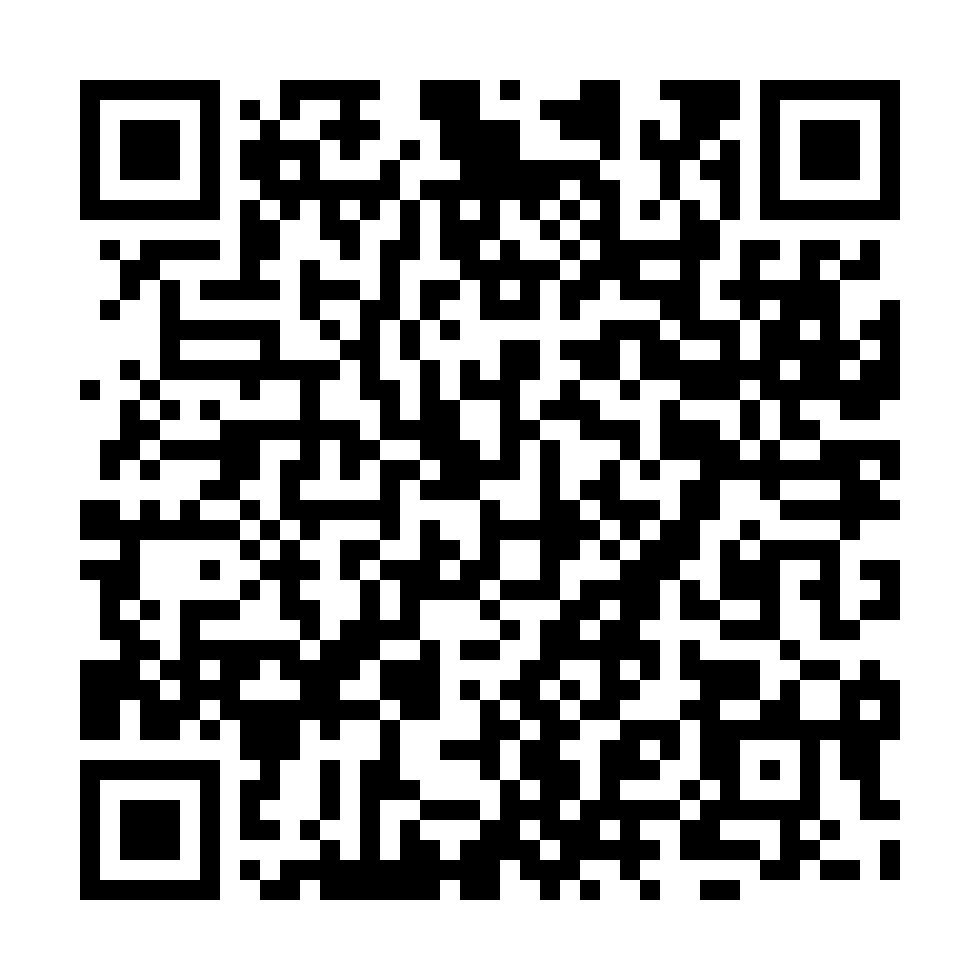
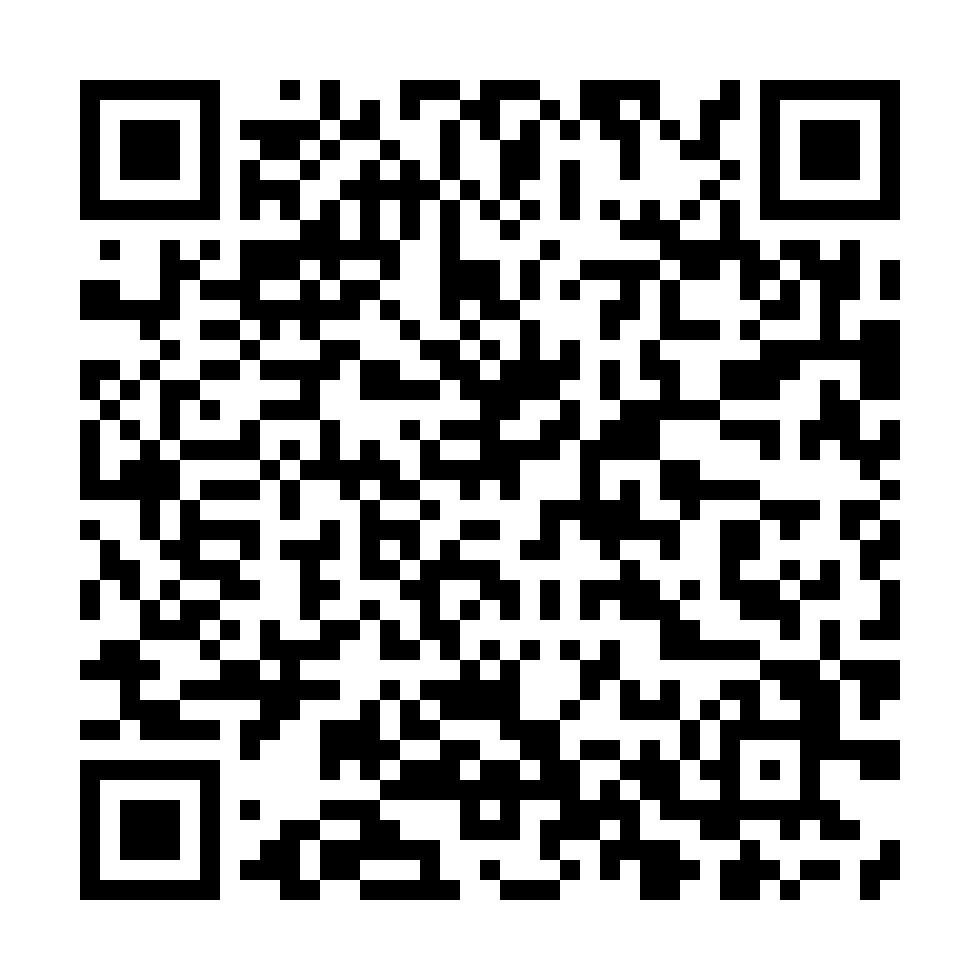
changed email sending to SendGrid

Changed region(s): [[0.0612, 0.0612, 0.9184, 0.9184]]

diff --git a/Server/Services/MailService.cs b/Server/Services/MailService.cs
@@ -3,9 +3,12 @@ using MailKit.Security;
 using Microsoft.EntityFrameworkCore;
 using MimeKit;
 using QRCoder;
+using SendGrid;
+using SendGrid.Helpers.Mail;
 using System;
 using System.Collections.Generic;
 using System.Drawing;
+using System.IO;
 using System.Linq;
 using System.Threading.Tasks;
 using TicketReservationSystem.Server.Context;
@@ -26,32 +29,54 @@ namespace TicketReservationSystem.Server.Services
 
         public async Task SendEmailAsync(MailRequest mailRequest, int reservationId)
        {
-        var cinema = _context.Cinemas.Include(h => h.Account).ToList().FirstOrDefault(c => !c.IsObsolete);
+
+            var cinema = _context.Cinemas.Include(h => h.Account).ToList().FirstOrDefault(c => !c.IsObsolete);
             var reservation = _context.Reservations.Include(h => h.Payment).Include(h => h.MovieShow).ThenInclude(ms => ms.Movie).Include(h => h.MovieShow).ThenInclude(s => s.Hall).ThenInclude(s => s.Cinema).Include(h => h.ReservationSeats).ThenInclude(h => h.Seats).FirstOrDefault(r => r.ReservationId == reservationId);
+            
+            var apiKey = "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";
+            var client = new SendGridClient(apiKey);
 
-        QRCodeGenerator qrGenerator = new QRCodeGenerator();
-        QRCodeData qrCodeData = qrGenerator.CreateQrCode($"Show : {reservation.MovieShow.Hall.Cinema.Name} {reservation.MovieShow.Hall.Name} {reservation.MovieShow.Movie.Title} {reservation.MovieShow.Date}\n" +
-            $"Number of tickets {reservation.ReservationSeats[0].Seats.Count}", QRCodeGenerator.ECCLevel.Q);
-        QRCode qrCode = new QRCode(qrCodeData);
-        Bitmap qrCodeImage = qrCode.GetGraphic(20);
-        qrCodeImage.Save("file.png");
+            QRCodeGenerator qrGenerator = new QRCodeGenerator();
+            QRCodeData qrCodeData = qrGenerator.CreateQrCode($"Show : {reservation.MovieShow.Hall.Cinema.Name} {reservation.MovieShow.Hall.Name} {reservation.MovieShow.Movie.Title} {reservation.MovieShow.Date}\n" +
+                $"Number of tickets {reservation.ReservationSeats[0].Seats.Count}\n" +
+                $"Reservation: {reservation.ReservationId}", QRCodeGenerator.ECCLevel.Q);
+            QRCode qrCode = new QRCode(qrCodeData);
+            Bitmap qrCodeImage = qrCode.GetGraphic(20);
+ 
+            ImageConverter converter = new ImageConverter();
+            var bytes = (byte[])converter.ConvertTo(qrCodeImage, typeof(byte[]));
+            var file = Convert.ToBase64String(bytes);
+            
+
+            var from = new EmailAddress(cinema.Account.Email, "NoReply");
+            var to = new EmailAddress(reservation.EmailForTickets);
+            var plainTextContent = " ";
+            var htmlContent = "<strong>and easy to do anywhere, even with C#</strong>";
+           
+            var msg = MailHelper.CreateSingleEmail(from, to, "Tickets", plainTextContent, htmlContent);
+            msg.AddAttachment("Tickets.png", file);
+            var response = await client.SendEmailAsync(msg);
+            Console.WriteLine(response);
+            var dataArray = await response.Body.ReadAsStringAsync();
+            Console.WriteLine(dataArray);
 
 
-            var builder = new BodyBuilder();
-            builder.Attachments.Add("file.png");
-       
-        var email = new MimeMessage();
-        email.Sender = MailboxAddress.Parse(cinema.Account.Email);
-        email.To.Add(MailboxAddress.Parse(mailRequest.ToEmail));
-        email.Subject = mailRequest.Subject;
-        builder.HtmlBody = "Price: " + (reservation.Payment.TotalPrice/100).ToString() +'\n'+
-                "For " + reservation.MovieShow.Movie.Title;
-        email.Body = builder.ToMessageBody();
-        using var smtp = new SmtpClient();
-        smtp.Connect("smtp.gmail.com", 587, SecureSocketOptions.StartTls);
-         smtp.Authenticate(cinema.Account.Email, cinema.Account.Password);
-        await smtp.SendAsync(email);
-        smtp.Disconnect(true);
-      }
+
+            //    var builder = new BodyBuilder();
+            //    builder.Attachments.Add("file.png");
+
+            //var email = new MimeMessage();
+            //email.Sender = MailboxAddress.Parse(cinema.Account.Email);
+            //email.To.Add(MailboxAddress.Parse(mailRequest.ToEmail));
+            //email.Subject = mailRequest.Subject;
+            //builder.HtmlBody = "Price: " + (reservation.Payment.TotalPrice/100).ToString() +'\n'+
+            //        "For " + reservation.MovieShow.Movie.Title;
+            //email.Body = builder.ToMessageBody();
+            //using var smtp = new SmtpClient();
+            //smtp.Connect("smtp.gmail.com", 587, SecureSocketOptions.StartTls);
+            // smtp.Authenticate(cinema.Account.Email, cinema.Account.Password);
+            //await smtp.SendAsync(email);
+            //smtp.Disconnect(true);
+        }
     }
 }

diff --git a/Shared/DTO/UserDTO.cs b/Shared/DTO/UserDTO.cs
@@ -2,12 +2,15 @@ using System;
 using System.Collections.Generic;
 using System.Linq;
 using System.Threading.Tasks;
+using TicketReservationSystem.Shared.Domain;
 
 namespace TicketReservationSystem.Shared.DTO
 {
     public class UserDTO
     {
-        public int Id { get; set; }
+        public int UserId { get; set; }
+        public int AdminId { get; set; }
+        public Admin Admin { get; set; }
         public string Name { get; set; }
         public string Email { get; set; }
         public string PhoneNumber { get; set; }

diff --git a/Client/Services/AuthenticationService.cs b/Client/Services/AuthenticationService.cs
@@ -33,7 +33,7 @@ namespace TicketReservationSystem.Client.Services
       var authenticated = JsonConvert.DeserializeObject<bool>(body);
       if (authenticated) {
         User = await Http.GetFromJsonAsync<UserDTO>("api/users/" + email);
-        IsAdmin = await Http.GetFromJsonAsync<bool>("api/users/" + User.Id + "/isadmin");
+        IsAdmin = await Http.GetFromJsonAsync<bool>("api/users/" + User.UserId + "/isadmin");
        }
       InvokeEvent();
       return User != null;
